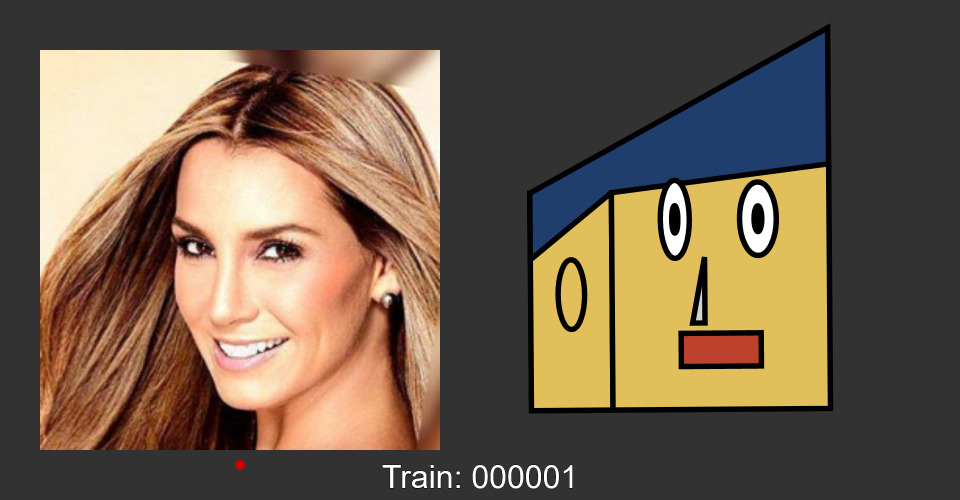
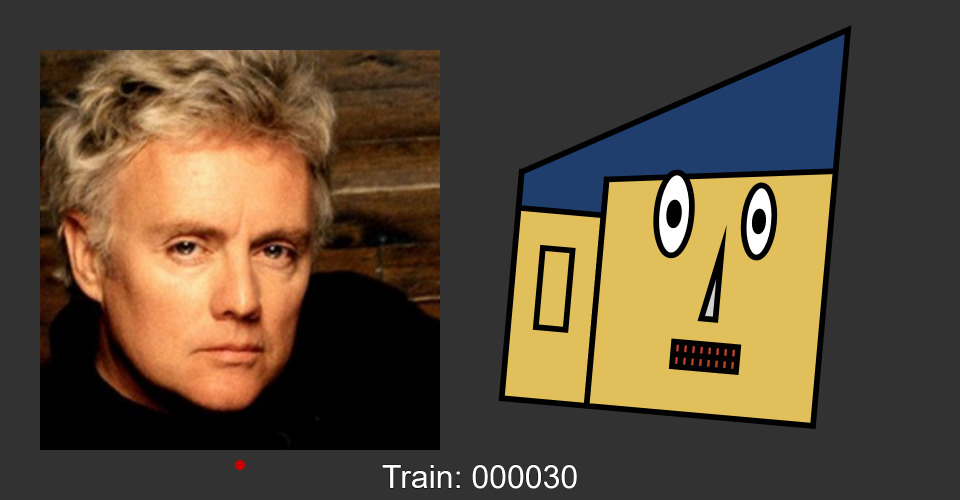
prepared codebase for training

diff --git a/face.js b/face.js
@@ -4,8 +4,8 @@
  */  
 
 // remove this or set to false to enable full program (load will be slower)
-var DEBUG_MODE = //false;
-true;
+var DEBUG_MODE = false;
+//true;
 
 // this can be used to set the number of sliders to show
 var NUM_SLIDERS = 11;
@@ -158,30 +158,19 @@ function Face() {
 
   /* set internal properties based on list numbers 0-100 */
   this.setProperties = function(settings) {
-    this.face.sideBurn=sideBurns[Math.floor(map(settings[0], 0, 100, 0,sideBurns.length))];
+    this.face.sideBurn=sideBurns[round(map(settings[0], 0, 100, 0,sideBurns.length))];
     this.face.sideBurnHeight=map(settings[1], 0, 100, minSideBurnHeight, maxSideBurnHeight);
-    //this.face.noseHeight=map(settings[2], 0, 100, minNoseHeight, maxNoseHeight);
+    this.face.noseDirection=noseDirections[round(map(settings[2], 0, 100, 0,noseDirections.length))];
     
-    
-    
-    this.face.noseDirection=noseDirections[Math.floor(map(settings[2], 0, 100, 0,noseDirections.length))];
-    
-    //this.face.noseY=map(settings[4], 0, 100, minNoseY, maxNoseY);
-    //this.face.noseWidth=map(settings[5], 0, 100, minNoseWidth, this.face.getMaxNoseWidth());
-    
-    //this.face.eyeWidth=map(settings[6], 0, 100, minEyeWidth, maxEyeWidth);
-    //this.face.eyeHeight=map(settings[7], 0, 100, minEyeHeight, maxEyeHeight);
     this.face.innerEyeWidth=map(settings[3], 0, 100, minInnerEyeWidth, maxInnerEyeWidth);
     this.face.innerEyeHeight=map(settings[4], 0, 100, minInnerEyeHeight, maxInnerEyeHeight);
-    //this.face.eyeX=map(settings[10], 0, 100, minEyeX, this.face.getMaxEyeX());
-    this.face.earShape=earShapes[Math.floor(map(settings[5], 0, 100, 0,earShapes.length))];
+    
+    this.face.earShape=earShapes[round(map(settings[5], 0, 100, 0,earShapes.length))];
     this.face.earY=map(settings[6], 0, 100, minEarY, maxEarY);
     this.face.innerEarWidth=this.face.earWidth*map(settings[7], 0, 100, minInnerEarWidth, maxInnerEarWidth);
     this.face.innerEarHeight=this.face.headHeight*map(settings[8], 0, 100, minInnerEarHeight, this.face.getMaxInnerEarHeight());
     this.face.hasTeeth=0.5<map(settings[9], 0, 100, 0,1);
-    //this.face.mouthWidth=map(settings[16], 0, 100, minMouthWidth,maxMouthWidth);
-    //this.face.mouthHeight=map(settings[17],0,100,minMouthHeight,this.face.getMaxMouthHeight());
-    //this.face.mouthY=map(settings[18], 0, 100, this.face.getMinMouthY(), this.face.getMaxMouthY());
+    
     this.face.numberOfteeth=Math.floor(map(settings[10], 0, 100, minNumberOfteeth,maxNumberOfTeeth));
 
     
@@ -190,36 +179,23 @@ function Face() {
   // /* get internal properties as list of numbers 0-100 */
   this.getProperties = function() {
 
-    let settings = new Array(3);
+    let settings = new Array(11);
    settings[0] = map(sideBurns.indexOf(this.face.sideBurn),0,sideBurns.length, 0, 100);
+   //console.log(map(sideBurns.indexOf(this.face.sideBurn),0,sideBurns.length, 0, 100));
      settings[1] = map(this.face.sideBurnHeight, minSideBurnHeight,maxSideBurnHeight,0, 100);
-    //settings[2] = map(this.face.noseHeight, minNoseHeight, maxNoseHeight, 0, 100);
-   
-
-    settings[2]=map(noseDirections.indexOf(this.face.noseDirection), 0,noseDirections.length, 0, 100);
-    //settings[4]=map(this.face.noseY, minNoseY, maxNoseY, 0, 100);
-    //settings[5]=map(this.face.noseWidth,  minNoseWidth, this.face.getMaxNoseWidth(),0, 100);
-    //settings[6]=map(this.face.eyeWidth, minEyeWidth, maxEyeWidth, 0, 100);
-    //settings[7]=map(this.face.eyeHeight, minEyeHeight, maxEyeHeight, 0, 100);
+    //console.log(this.face.noseDirection);
+     let x=map(noseDirections.indexOf(this.face.noseDirection),0,noseDirections.length,0,100);
+    //console.log(this.face.noseDirection);
+    //console.log(x);
+    settings[2]=x;
     settings[3]= map(this.face.innerEyeWidth, minInnerEyeWidth, maxInnerEyeWidth, 0, 100);
     settings[4]=map(this.face.innerEyeHeight, minInnerEyeHeight, maxInnerEyeHeight, 0, 100);
-    //settings[10]=map(this.face.eyeX, minEyeX, this.face.getMaxEyeX(), 0, 100);
     settings[5]=map(earShapes.indexOf(this.face.earShape), 0,earShapes.length, 0, 100);
     settings[6]= map(this.face.earY, minEarY, maxEarY, 0, 100);
     settings[7]=map(this.face.innerEarWidth/this.face.earWidth, minInnerEarWidth, maxInnerEarWidth, 0, 100);
     settings[8]=map(this.face.innerEarHeight/this.face.headHeight, minInnerEarHeight, this.face.getMaxInnerEarHeight(), 0, 100);
     settings[9]=map(this.face.hasTeeth?1:0, 0,1, 0, 100);
-    //settings[16]=map(this.face.mouthWidth, minMouthWidth,maxMouthWidth, 0, 100);
-    //settings[17]= map(this.face.mouthHeight,minMouthHeight,this.face.getMaxMouthHeight(),0,100);
-    //settings[18]=map(this.face.mouthY, this.face.getMinMouthY(), this.face.getMaxMouthY(), 0, 100);
     settings[10]=map(this.face.numberOfteeth, minNumberOfteeth,maxNumberOfTeeth, 0, 100);
-    
-    
-    
-   
-    
-    
-
     
     return settings;
   }

diff --git a/myFace.js b/myFace.js
@@ -2,9 +2,9 @@
 //sideburns
 const faceScale=0.5;
 const eyeHeightScalar=7;
-const sideBurns = ["none", "square", "triangle"];
+const sideBurns = [ "triangle", "square","none"];
 const minSideBurnHeight=.1*faceScale;
-const maxSideBurnHeight=3*faceScale;
+const maxSideBurnHeight=4*faceScale;
 //nose
 // const minNoseHeight=0.5*faceScale;
 // const maxNoseHeight=4*faceScale;
@@ -12,7 +12,8 @@ const maxSideBurnHeight=3*faceScale;
 // const maxNoseWidth=6*faceScale;
 // const minNoseY=-1.5*faceScale;
 // const maxNoseY=1.5*faceScale; 
-const noseDirections = ["left", "right", "both"];
+
+const noseDirections=["left","both","right"];
 //eyes
 // const minEyeX=.5*faceScale;
 // const minEyeWidth=1*faceScale;
@@ -77,28 +78,30 @@ class myFace{
   noseCol=grey;
   
   constructor(){
-
-    this.sideBurn=sideBurns[Math.floor(p5.prototype.random() * sideBurns.length)];
-    if(this.sideBurn!="none"){
-      this.sideBurnHeight=p5.prototype.random(minSideBurnHeight,maxSideBurnHeight);
-    }
-    this.earShape=earShapes[Math.floor(Math.random() * earShapes.length)];
     
-    this.noseDirection=noseDirections[Math.floor(Math.random() * noseDirections.length)];
- 
-    this.innerEyeWidth=p5.prototype.random(minInnerEyeWidth,maxInnerEyeWidth);
-    this.innerEyeHeight=p5.prototype.random(minInnerEyeHeight,maxInnerEyeHeight);
-    this.earY=p5.prototype.random(minEarY,maxEarY);
-    this.innerEarWidth=this.earWidth*p5.prototype.random(minInnerEarWidth,maxInnerEarWidth);
-    this.innerEarHeight=this.headHeight*p5.prototype.random(minInnerEarHeight,this.getMaxInnerEarHeight());
+    this.sideBurn="triangle";
+    
+    this.sideBurnHeight=this.getAverage(minSideBurnHeight,maxSideBurnHeight);
+    
+    this.earShape="square";
+    this.noseDirection="both";
   
-    this.hasTeeth=Math.random()<0.6;
+ 
+    this.innerEyeWidth=this.getAverage(minInnerEyeWidth,maxInnerEyeWidth);
+    this.innerEyeHeight=this.getAverage(minInnerEyeHeight,maxInnerEyeHeight);
+    this.earY=this.getAverage(minEarY,maxEarY);
+    this.innerEarWidth=this.earWidth*this.getAverage(minInnerEarWidth,maxInnerEarWidth);
+    this.innerEarHeight=this.headHeight*this.getAverage(minInnerEarHeight,this.getMaxInnerEarHeight());
+  
+    this.hasTeeth=true;
    
-    this.numberOfteeth=Math.floor(p5.prototype.random(minNumberOfteeth,maxNumberOfTeeth));
+    this.numberOfteeth=Math.floor(this.getAverage(minNumberOfteeth,maxNumberOfTeeth));
    
   
   }
-  
+  getAverage(min, max){
+    return map(0.5, 0, 1, min, max);
+  }
   
   getMaxInnerEarHeight(){
     return maxInnerEarHeight;
@@ -189,14 +192,7 @@ class myFace{
     fill(this.eyeBallCol);
     let leftEyeWidth=this.positions.left_eye[3][0]-this.positions.left_eye[0][0];
     let leftEyeHeight=eyeHeightScalar*(this.positions.left_eye[4][1]-this.positions.left_eye[2][1]);
-    ellipse(segment_average(this.positions.left_eye)[0],
-     this.eyeY, 
-     leftEyeWidth,
-      leftEyeHeight);
-    
-    
-    
-    
+    ellipse(segment_average(this.positions.left_eye)[0],this.eyeY, leftEyeWidth,leftEyeHeight);
     fill(this.eyeCentreCol);
     ellipse(segment_average(this.positions.left_eye)[0], this.eyeY, leftEyeWidth*this.innerEyeWidth, leftEyeHeight*this.innerEyeHeight);
     strokeWeight(myStrokeWeight);
@@ -220,7 +216,7 @@ class myFace{
     // if(this.noseY+this.noseHeight/2+minMouthNoseGap>=this.mouthY-this.mouthHeight/2){
     //   noseHeightReduction=minMouthNoseGap;
     // }
-    
+   
     this.noseX=this.positions.nose_bridge[0][0];
     //draw left facing:
     if(this.noseDirection=="left"){

diff --git a/README.md b/README.md
@@ -1,2 +1,2 @@
 
-This gap between the eye height and eyebrow height didn't look good as there could be significant deviation between the left and right eye heights depending on the expression in the eye brows so the eye height is now defined as 7* the eye height in the positional data.I have also significantly culled the number of sliders as initially I put all 20 of the parameters in and now there is just 11 but some of these can probably be culled further.  
+I have cleaned up code and made default values the middle of the sliders. I also spent far too long realising I needed to round not floor to get indexes working properly with the sliders.  
